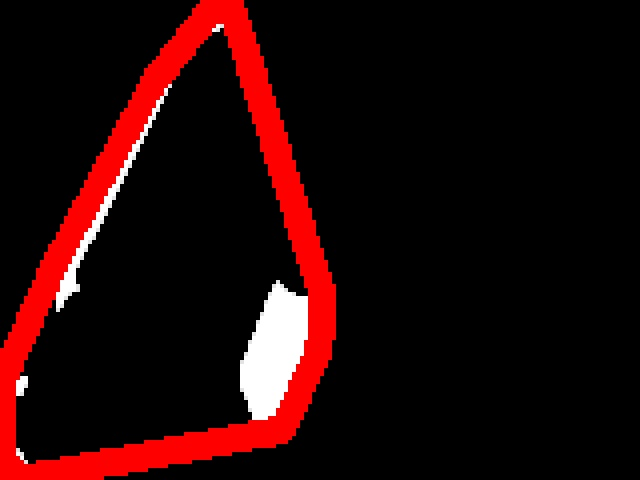
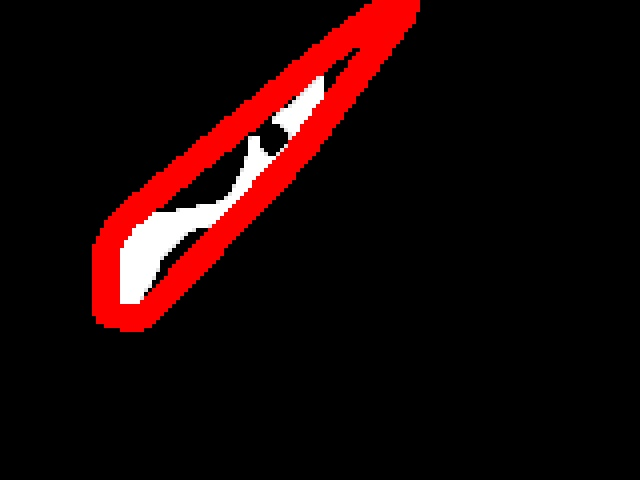
final commits before demo!

Changed region(s): [[0.0, 0.0, 0.6562, 1.0]]

diff --git a/project/runOnPi/Week3/below_with_gestures_DEMO_onegesture.py b/project/runOnPi/Week3/below_with_gestures_DEMO_onegesture.py
@@ -166,6 +166,11 @@ matchContour = [None] * 10
 nbg = 1
 Start = 1
 
+hullColor = (0,0,255)
+
+cx = 0
+cy = 0
+
 mouseL_len = 3
 mouseL = np.asarray([[0,0,0]] * mouseL_len)
 
@@ -233,7 +238,7 @@ for frame in camera.capture_continuous(rawCapture, format="bgr", use_video_port=
         hull = cv2.convexHull(cnts)
         defectHull = cv2.convexHull(cnts,returnPoints=False)
         defects = cv2.convexityDefects(cnts, defectHull)
-        f = cv2.drawContours(f, [hull], 0, (0,0,255), 5)
+        f = cv2.drawContours(f, [hull], 0, hullColor, 5)
 
         dists = []
         
@@ -256,10 +261,7 @@ for frame in camera.capture_continuous(rawCapture, format="bgr", use_video_port=
                 mouseEm[0] = 0
     
     M = cv2.moments(frame)
-    if M['m00'] == 0: 
-        cx = 0
-        cy = 0
-    else:
+    if M['m00'] != 0: 
         cx = int(M['m10']/M['m00'])
         cy = int(M['m01']/M['m00'])
  
@@ -280,13 +282,18 @@ for frame in camera.capture_continuous(rawCapture, format="bgr", use_video_port=
     if portFcn[0] == 1:
         continue
         
+
+
     #Check jump
-    if abs(prevMouseEm[2]) > 100 or abs(prevMouseEm[1]) > 100 or prevMouseEm[0] != mouseEm[0]:
+    if abs(prevMouseEm[2]) > 100 or abs(prevMouseEm[1]) > 100 or prevMouseEm[0] != mouseEm[0] or len(contours) == 0:
         rx = 0
         ry = 0
     else:
         rx = cx - cxp
         ry = cy - cyp
+    if abs(rx)  > 100 or abs(ry) > 100:
+        rx = 0
+        ry = 0
     cxp = cx
     cyp = cy
     prevMouseEm[1] = mouseEm[1]
@@ -311,6 +318,11 @@ for frame in camera.capture_continuous(rawCapture, format="bgr", use_video_port=
         mouseEm1[1] = 0
         mouseEm1[2] = 0
     
+    if int(mouseEm1[0]) == 1:
+        hullColor = (0,255,0)
+    else:
+        hullColor = (0,0,255)
+
     send_state(dev, mouseEm1[0], mouseEm1[1], mouseEm1[2])
 
     
